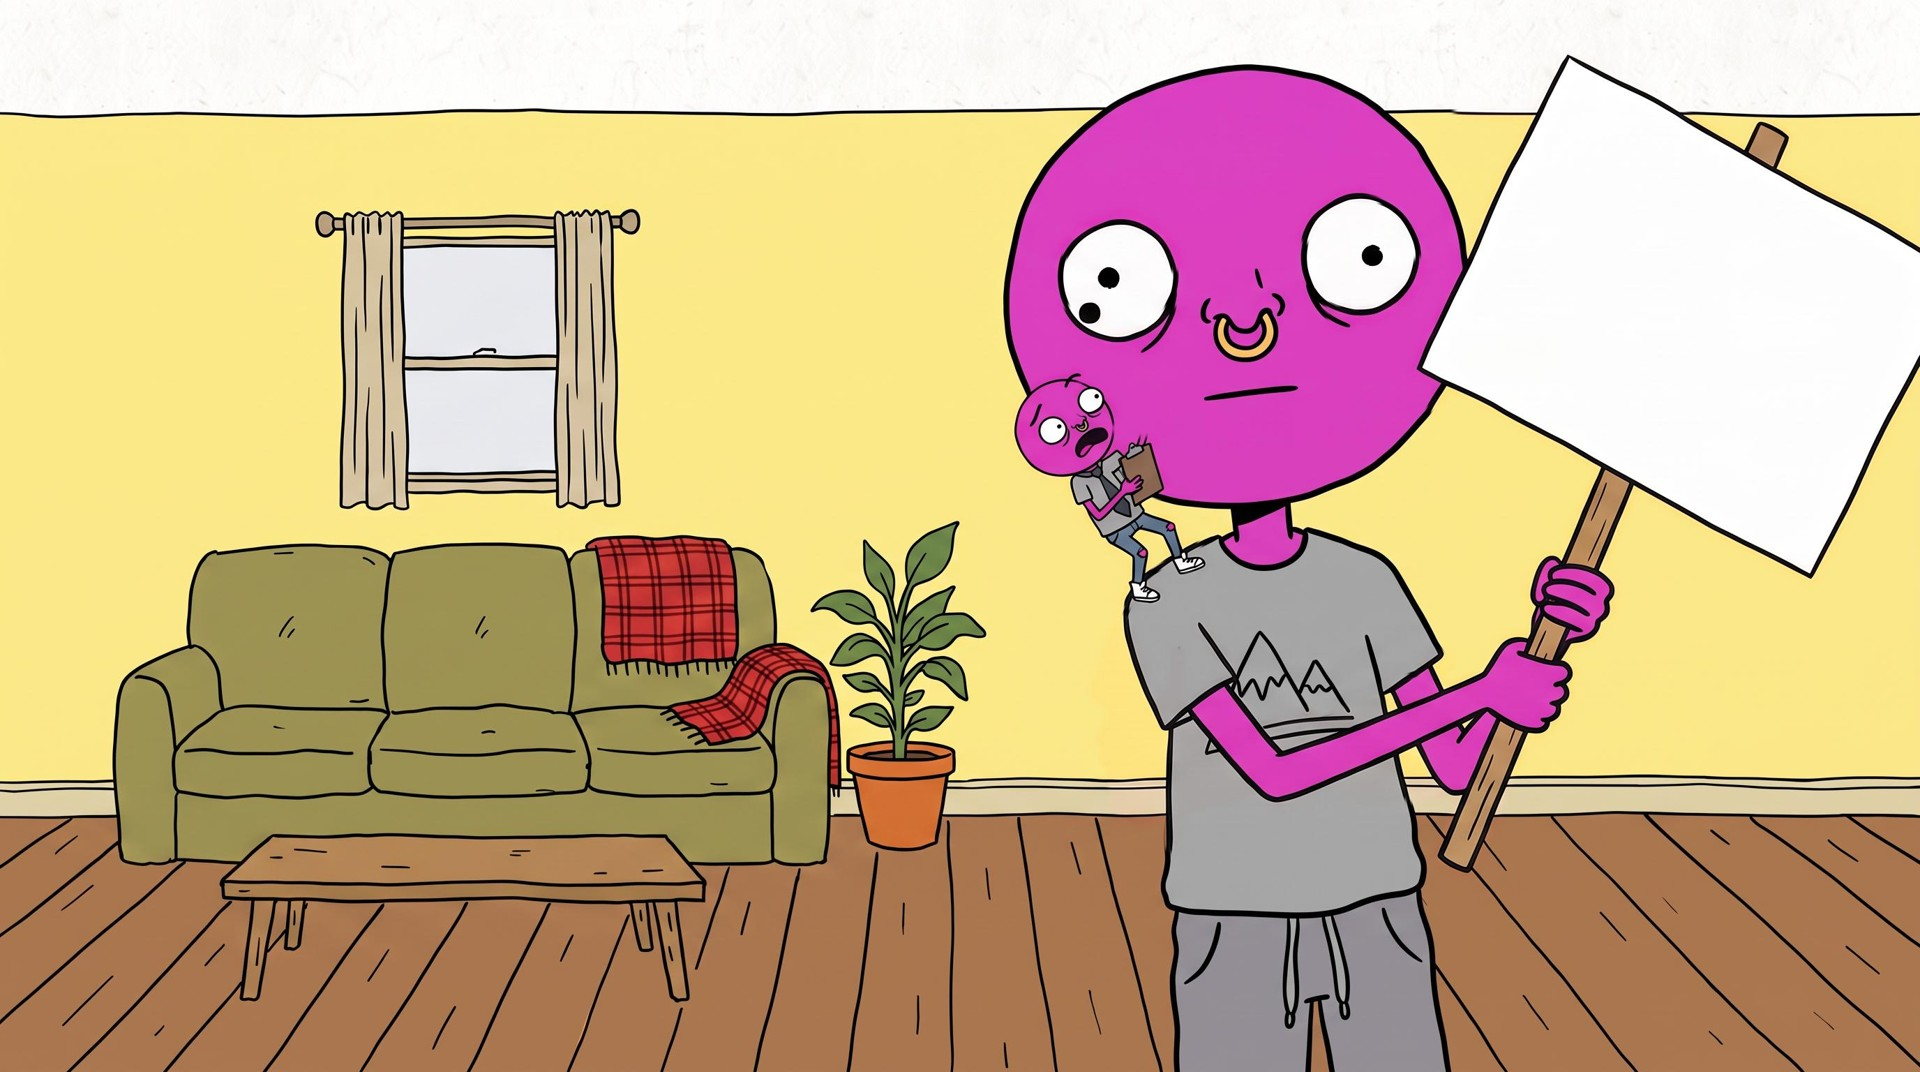
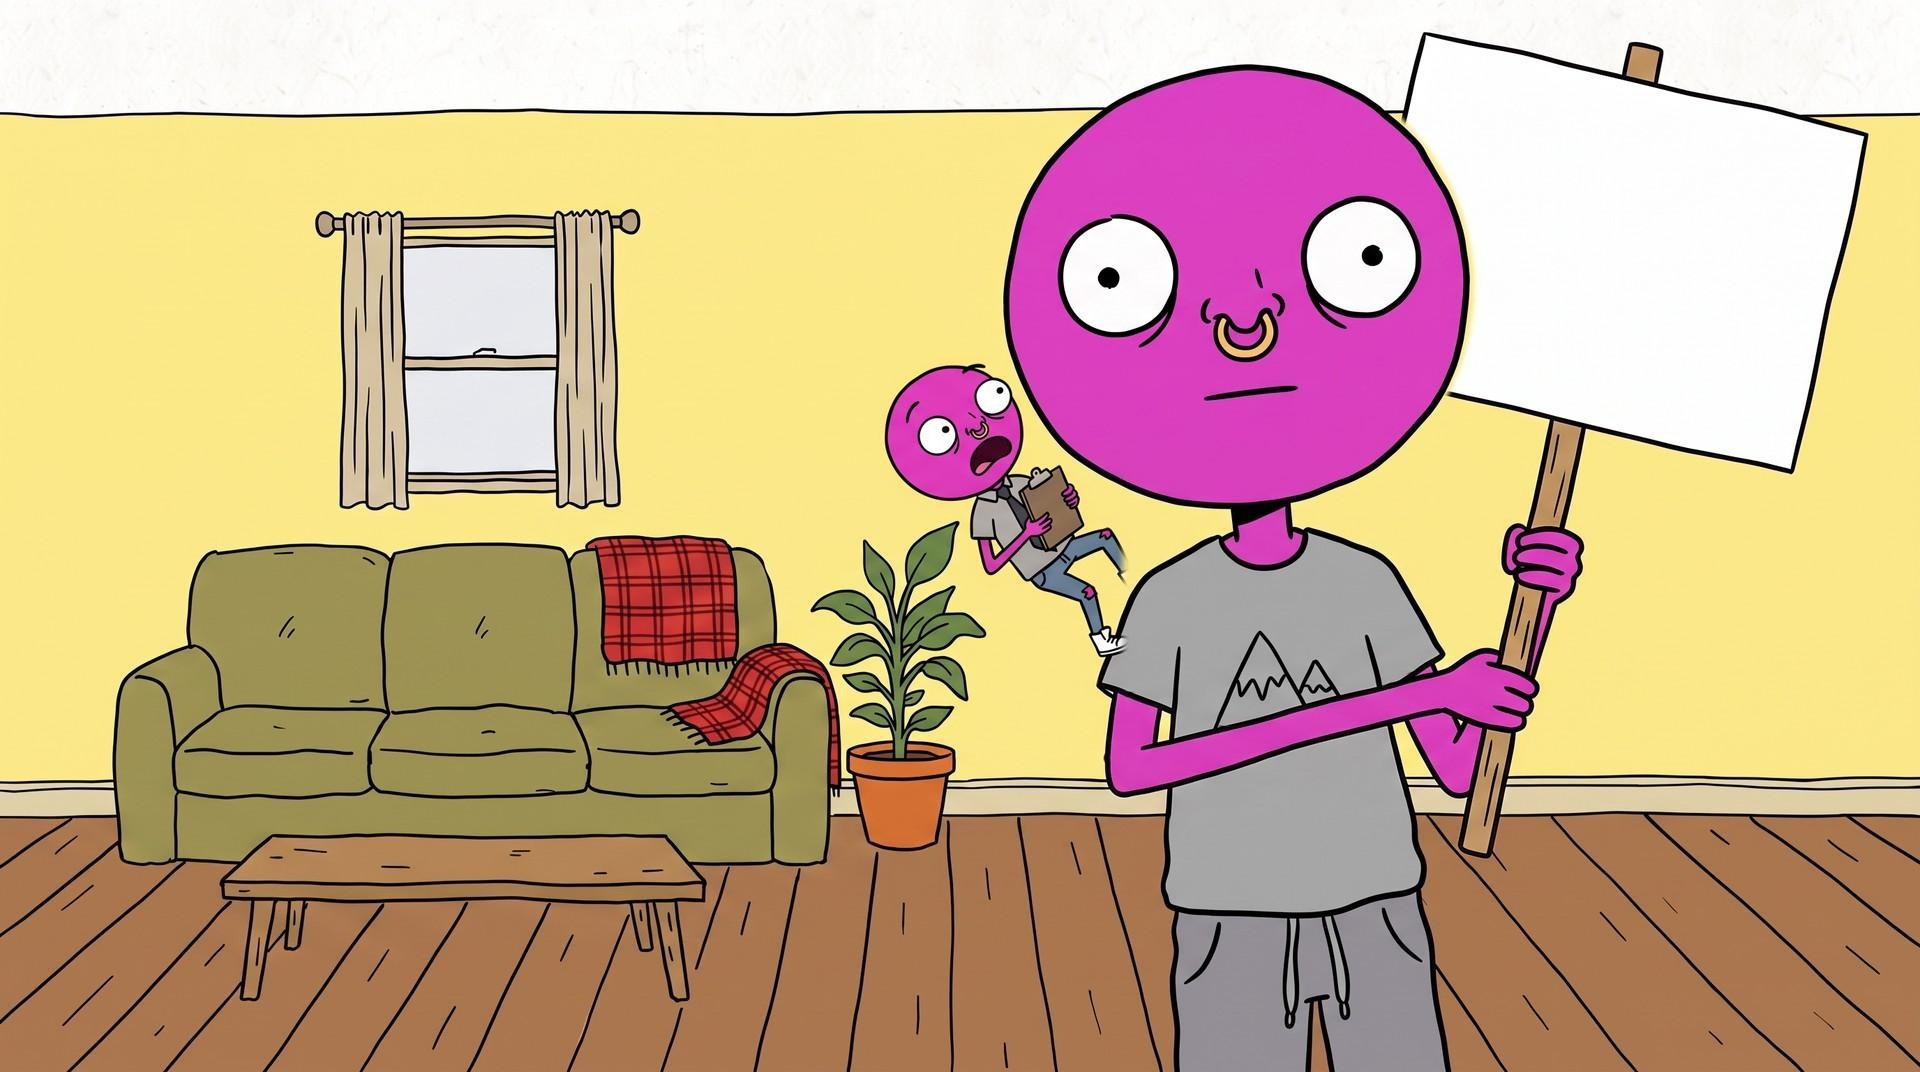
Domingo trozo 7: mini-jefe sin ojos dobles, cajón cerrado, texto centrado en la pizarra
Claude-Session: https://claude.ai/code/session_01W1d2B3tJHY5s1jRup8PdJX

diff --git a/.claude/skills/video-inventario/SKILL.md b/.claude/skills/video-inventario/SKILL.md
@@ -309,3 +309,10 @@ Trabaja en una carpeta de proyecto en el scratchpad (`<proyecto>/img`, `<proyect
   sofá del domingo, la pulsera, el banco del abuelo, el mini-jefe) y acabar con él a cámara en primer plano con el
   remate en el último dibujo y `"duracion"` con 1,5-2 s de aire. Magnific a veces da «TPM quota exhausted»: no es un
   error del pedido, se repite la misma petición al rato (no lanzar más de ~8 a la vez).
+- 2026-11-12 «al muñeco del hombro le salen dos pupilas, el cajón no está cerrado, el texto de la pizarra no sale
+  bien» (trozo 7): 1) al añadir algo pegado a su cabeza (un mini-él en el hombro) NO copiar la edición entera: la IA
+  mueve un poco la cara y al mezclar salen ojos dobles; pedir que lo añadido NO solape la cabeza, copiar con
+  `variante.py --zona` solo esa zona y, si roza un ojo, volver a pegar ese ojo de la base. Mirar la cara ampliada.
+  2) Si la IA no consigue cambiar el estado de un objeto editando (cajón que «cierra» y sigue abierto), dibujar ese
+  estado como plano nuevo y simple (de frente, «completely closed, nothing sticking out») y cortar a él.
+  3) Pizarras: medir el borde de la pizarra en el fotograma y centrar el texto dentro (nunca alineado a ojo).
